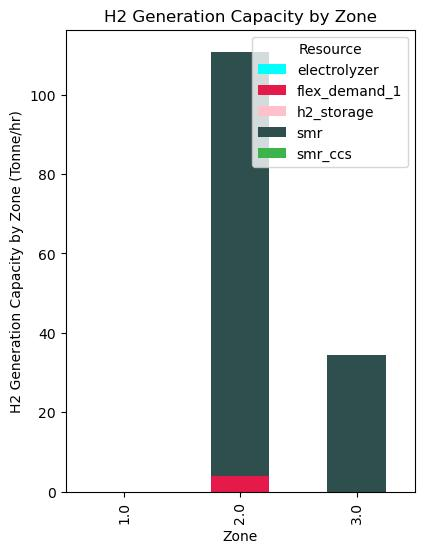
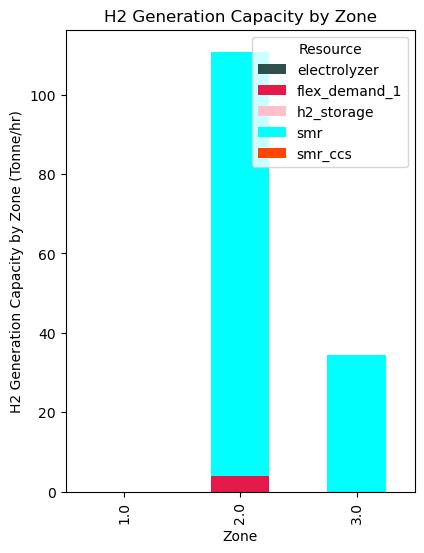
updated for generation fig, elec

Changed region(s): [[0.4906, 0.0922, 0.6745, 0.8608], [0.7665, 0.6148, 0.9198, 0.8915]]

diff --git a/src/viz_tools/src/data_wrangling/data_wrangling_long.py b/src/viz_tools/src/data_wrangling/data_wrangling_long.py
@@ -14,7 +14,6 @@ import matplotlib.pyplot as plt
 # Dictionary to map patterns to energy types
 elec_bins = {
     'natural_gas': ['natural_gas', 'naturalgas', 'ng', 'combined_cycle', 'ocgt', 'ccgt'],
-    'natural_gas_w_CCS': ['natural_gas_ccs'],
     'hydroelectric': ['hydro', 'hydroelectric', 'ror'],  # added 'hydroelectric' to the list for better matching
     'coal': ['coal', 'lignite'],
     'solar': ['solar', 'pv'],
@@ -103,34 +102,6 @@ def open_inputs_file(file_name, run):
     path = runs_directory_path + run + '/' + file_name
     df = pd.read_csv(path)
     return(df)
-
-
-
-
-# Dictionary to map patterns to energy types
-# elec_bins = {
-#     'natural_gas': ['natural_gas', 'naturalgas', 'ng', 'combined_cycle', 'ocgt', 'ccgt'],
-#     'natural_gas_w_CCS': ['natural_gas_ccs'],
-#     'hydroelectric': ['hydro', 'hydroelectric', 'ror'],  # added 'hydroelectric' to the list for better matching
-#     'coal': ['coal', 'lignite'],
-#     'solar': ['solar', 'pv'],
-#     'wind': ['wind'],
-#     'nuclear': ['nuclear'],
-#     'battery': ['battery', 'lithium', 'storage'],
-#     'phs' : ['phs', "pumped"],
-#     'oil' : ['oil'],
-#     'biomass' : ["biomass"],
-#     'H2': ['H2']
-# }
-
-# h2_bins = {
-#     'smr': ['smr'],
-#     'atr': ['atr'],
-#     'electrolyzer': ['electrolyzer', 'electrolyzers'],  # added 'hydroelectric' to the list for better matching
-#     'h2_storage': ['storage']}
-
-
-
 
 
 
@@ -324,12 +295,12 @@ def electricity_analysis(run):
 
     df = identify_tech_type(df, bin_type = "elec")
     
-    variables_of_interest = ['Zone', 'EndCap', 'Resource']
+    variables_of_interest = ['Zone', 'EndCap', 'Resource', 'AnnualGeneration']
     df = df[variables_of_interest]
 
     # Capacity
     melted_df = pd.melt(df, id_vars=['Zone', 'Resource'], 
-                       value_vars=['EndCap'], 
+                       value_vars=['EndCap', 'AnnualGeneration'], 
                        var_name='Type', value_name='Value')
 
     # Replace 'Type' values based on condition

diff --git a/src/viz_tools/src/data_viz_main.py b/src/viz_tools/src/data_viz_main.py
@@ -10,15 +10,30 @@ def run_data_viz_single_run(dir):
 
     viz_path = create_viz_dir(dir)
 
+    print(elec_viz_df)
+
+    print(h2_viz_df)
+
     create_stacked_bar_plot(df = elec_viz_df,
                             target_type = "electricity_capacity_MW",
                             save_path = viz_path,
                             fig_name = "elec_capacity")
     
+    create_stacked_bar_plot(df = elec_viz_df,
+                            target_type = "electricity_generation_MWh",
+                            save_path = viz_path,
+                            fig_name = "elec_generation")
+
     create_stacked_bar_plot(df = h2_viz_df,
                             target_type = "h2_capacity_tonne_hr",
                             save_path = viz_path,
                             fig_name = "h2_capacity")
+    
+
+    create_stacked_bar_plot(df = h2_viz_df,
+                            target_type = "h2_capacity_tonne_hr",
+                            save_path = viz_path,
+                            fig_name = "h2_generation")
 
 
 

diff --git a/src/viz_tools/src/viz/create_viz.py b/src/viz_tools/src/viz/create_viz.py
@@ -23,9 +23,11 @@ elec_colors = {
 }
 
 h2_colors = {
-    'smr': '#2f4f4f',  # dark grey
+    'smr': '#00ffff',  # dark grey
+    'smr_ccs': '#ff4500', #orange
     'atr': '#800000',  # bordeaux
-    'electrolyzer': '#00ffff',  # aqua blue
+    'atr_ccs': '#9400d3', #violet
+    'electrolyzer': '#2f4f4f' ,  # aqua blue
     'h2_storage': '#ffc0cb'  # pink
 }
 
